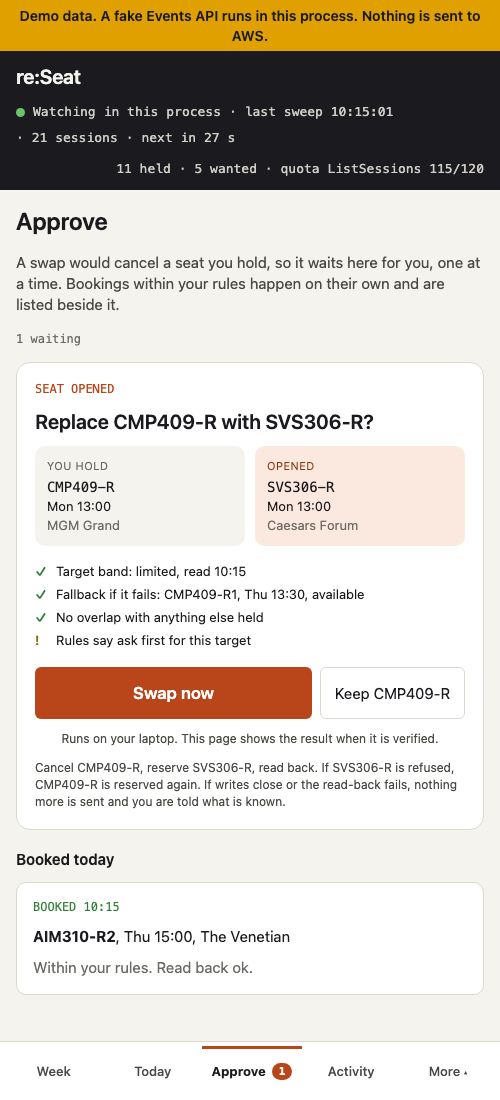
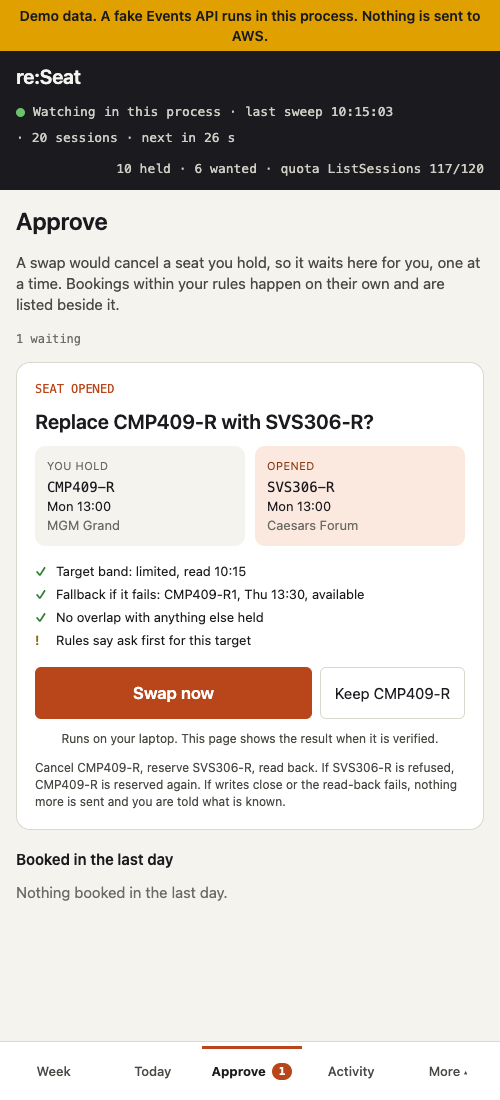
Refresh the demo GIF and screenshots from the current demo
The GIF and the four demo screenshots dated from 11 October and showed
"Doors close 11:19". Recaptured from reseat serve --demo on this
branch at the same sizes: Today now shows "Doors close 11:20", and the
week, approve and demo pages show the current layout. All are demo
data, with the demo banner on every frame. README alt text matches
what the new images show.

Changed region(s): [[0.03, 0.7727, 0.45, 0.8964], [0.48, 0.8345, 0.57, 0.8655]]

diff --git a/README.md b/README.md
@@ -84,7 +84,7 @@ With your own seats, `reseat serve` runs the watcher and the same web app at `ht
 
 | Week, laptop width | Approve, phone width | Today, phone width |
 |---|---|---|
-| ![Week: status line, a swap waiting for approval, what just changed, and the week grid with a NEW label](https://raw.githubusercontent.com/hsiddhu2/reseat/main/docs/screenshots/week.png) | ![Approve: the held and opened sessions side by side, the checks and one button](https://raw.githubusercontent.com/hsiddhu2/reseat/main/docs/screenshots/approve.png) | ![Today: leave-in countdown, next sessions, wanted sessions with queue-or-go advice](https://raw.githubusercontent.com/hsiddhu2/reseat/main/docs/screenshots/today.png) |
+| ![Week: status line, a swap waiting for approval, what just changed, and the week grid with a PROPOSED label](https://raw.githubusercontent.com/hsiddhu2/reseat/main/docs/screenshots/week.png) | ![Approve: the held and opened sessions side by side, the checks, and Swap now or Keep](https://raw.githubusercontent.com/hsiddhu2/reseat/main/docs/screenshots/approve.png) | ![Today: leave-in countdown, next sessions, wanted sessions with queue-or-go advice](https://raw.githubusercontent.com/hsiddhu2/reseat/main/docs/screenshots/today.png) |
 
 ![Demo page: a scenario list, and beside it what AWS did, what re:Seat did, the week before and after, and the phone's notification](https://raw.githubusercontent.com/hsiddhu2/reseat/main/docs/screenshots/demo.png)
 
